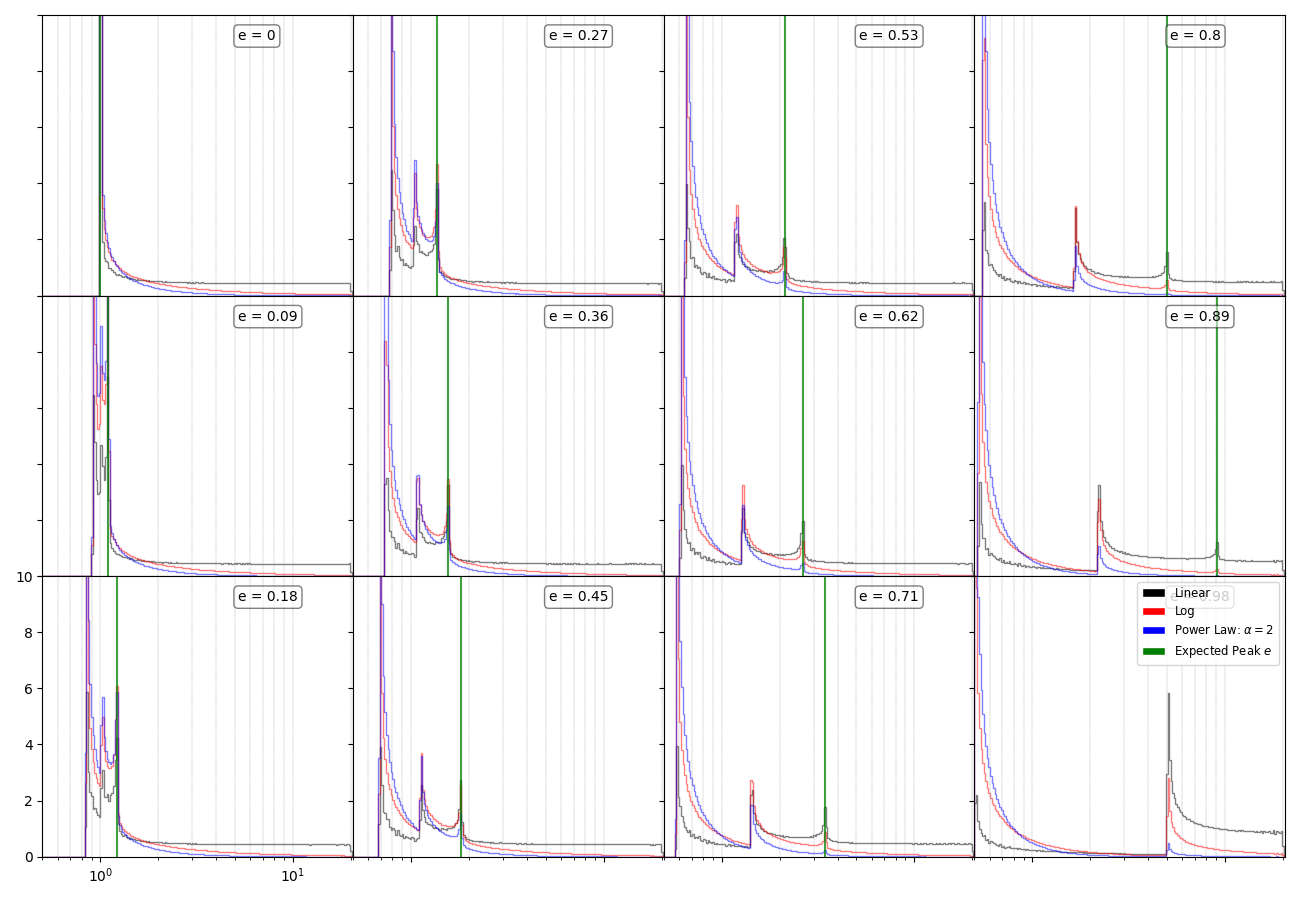
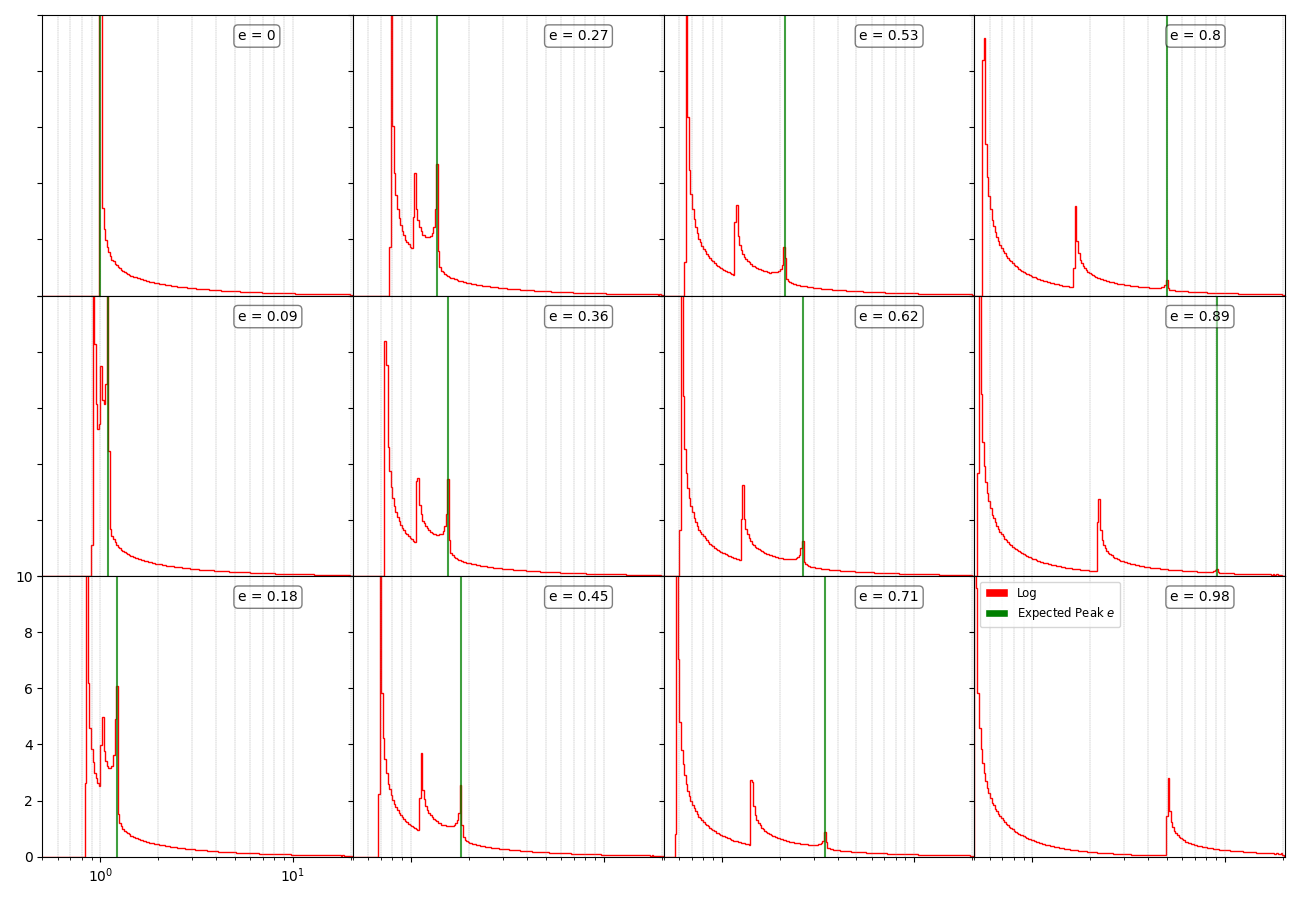
Reverted Changes to CompleteHist, now runs inclination and omegas separate to linear log and linear_a

Changed region(s): [[0.3385, 0.0311, 0.9846, 0.9644], [0.0615, 0.0311, 0.5231, 0.9644]]

diff --git a/Sep_plot.py b/Sep_plot.py
@@ -142,7 +142,7 @@ class Sep_plot(Sep_gen):
         if (inclination == True and len(estep) != 0) or len(specify) != 0:
             totlist = Sep_gen.Rchange(param = param)
         elif len(specify) == 0:
-            with Pool(processes = 9) as pool:
+            with Pool(processes = 15) as pool:
                 totlist = pool.map(Sep_gen.Rchange, param)
         end_time = time.perf_counter()
         totaltime = end_time - start
@@ -600,21 +600,18 @@ class Sep_plot(Sep_gen):
         """
         
         """
-        step, end, inclination, which, estep_outer, inum, wnum = param
+        step, end, inclination, which, estep_outer, inum, wnum, unity = param
         
-        if len(estep_outer) == 0:
+        if not inclination:
             colorlist = ["black", "red", "blue", "green"]
-            labels = ["Linear", "Log", r"Power Law = $\alpha = 2$"]
-        else:
+            # labels = ["Linear", "Log", r"Power Law = $\alpha = 2$"]
+        elif inclination:
             if which == "Log":
-                colorlist = ["red"]
-                labels = ["Log"]
+                colorlist = ["red", "green"]
             elif which == "Linear":
-                colorlist = ["black"]
-                labels = ["Linear"]
+                colorlist = ["black", "green"]
             else:
-                colorlist = ["blue"]
-                labels = ["Linear / a"]
+                colorlist = ["blue", "green"]
         # Dictionary for storing Rchange results
         totlinlist = []
         totloglist = []
@@ -735,42 +732,30 @@ class Sep_plot(Sep_gen):
                         evalhistlist = [(histcirc, binscirc)]
                     else:
                         # For inclination and omega marginalization
-                      for j in range(len(steptotlist)):
-                        steplindict, stepsemidict, blank, steplogdict, blank = steptotlist[j]
-                        histlist = tothistlist[j]
-                        # Log histogram
-                        totlogiter = steplogdict
-                        totloglist = [key for key, val in totlogiter.items() for _ in range(val)]
-                        hist_log, histbins_log = np.histogram(totloglist,bins = logbins, range=(0.5, end+0.5))
-                        if k != 0.0:
-                            histlistiter = histlistlog[j]
-                            hist_log_iter, bins_log_iter = histlistiter
-                            hist_log_iter = hist_log_iter + hist_log
-                            histlistlog[j] = (hist_log_iter, bins_log_iter)
-                        else:
-                            histlistlog.append((hist_log, histbins_log))
-                        # Linear histogram
-                        totliniter = steplindict
-                        totlinlist = [key for key, val in totliniter.items() for _ in range(val)]
-                        hist_lin, histbins_lin = np.histogram(totlinlist,bins = logbins, range=(0.5, end+0.5))
-                        if k != 0.0:
-                            histlistiter = histlistlin[j]
-                            hist_lin_iter, bins_lin_iter = histlistiter
-                            hist_lin_iter = hist_lin_iter + hist_lin
-                            histlistlin[j] = (hist_lin_iter, bins_lin_iter)
-                        else:
-                            histlistlin.append((hist_lin, histbins_lin))
-                        # Linear / a histogram
-                        totsemiiter = stepsemidict
-                        totsemilist = [key for key, val in totsemiiter.items() for _ in range(val)]
-                        hist_semi, histbins_semi = np.histogram(totsemilist,bins = logbins, range=(0.5, end+0.5))
-                        if k != 0.0:
-                            histlistiter = histlistsemi[j]
-                            hist_semi_iter, bins_semi_iter = histlistiter
-                            hist_semi_iter = hist_semi_iter + hist_semi
-                            histlistsemi[j] = (hist_semi_iter, bins_semi_iter)
-                        else:
-                            histlistsemi.append((hist_semi, histbins_semi))
+                        for j in range(len(steptotlist)):
+                            steplindict, stepsemidict, y, steplogdict, blank = steptotlist[j]
+                            histlist = tothistlist[j]
+                            if which == "Log":
+                                # Log histogram
+                                totlogiter = steplogdict
+                                totloglist = [key for key, val in totlogiter.items() for _ in range(val)]
+                                hist_log, histbins_log = np.histogram(totloglist,bins = logbins, range=(0.5, end+0.5))
+                                histlist.append((hist_log, histbins_log))
+                            elif which == "Linear":
+                                # Linear histogram
+                                totliniter = steplindict
+                                totlinlist = [key for key, val in totliniter.items() for _ in range(val)]
+                                hist_lin, histbins_lin = np.histogram(totlinlist,bins = logbins, range=(0.5, end+0.5))
+                                histlist.append((hist_lin, histbins_lin))
+                            elif which == "Linear_a":
+                                # Linear / a histogram
+                                totsemiiter = stepsemidict
+                                totsemilist = [key for key, val in totsemiiter.items() for _ in range(val)]
+                                hist_semi, histbins_semi = np.histogram(totsemilist,bins = logbins, range=(0.5, end+0.5))
+                                histlist.append((hist_semi, histbins_semi))  
+                            else:
+                                return(print(f"Warning: {which} is not a valid point. Please use (Log) or (Linear) as your options"))
+                            tothistlist[j] = histlist
             gc.collect()
         
                     
@@ -840,42 +825,26 @@ class Sep_plot(Sep_gen):
             # Initial Params for Plot
                 ax.set_xlim(0.5,20.5)
                 ax.set_ylim(0,10)
-                ax.set_xscale("log")
-            
+                ax.set_xscale("log")        
         elif len(estep_outer) == 0:
-            # for j, ax  in enumerate(axs.flatten()):
-            #     histlist = tothistlist[j]
-            #     iterparam = param[j]
-            #     for val in range(len(histlist)):
-            #         hist, bins = histlist[val]
-            #         if val == 0:
-            #             tothist = np.zeros_like(hist)
-            #             tothist = tothist + hist
-            #         elif val == len(histlist)-1:
-            #             tothist = tothist + hist
-            #             norm = np.abs(1 / (logbinsize * np.sum(tothist)))
-            #             StepPatch = ax.stairs(tothist * norm, bins, edgecolor = colorlist[0], fill = False)
-            #         else:
-            #             tothist = tothist + hist
-                
-            #     ax.grid(True,color = "grey", linestyle="--", linewidth="0.25", axis = "x", which = "both")
-            #     ax.set_xlim(0.5,20.5)
-            #     ax.set_xscale("log")
-            #     ax.text(8, 4, f"e = {iterparam[0]}")
             for j, ax  in enumerate(axs.flatten()):
-            # Takes newly made lists for data collection 
-                histiter_lin, bins_lin = histlistlin[j]
-                histiter_log, bins_log = histlistlog[j]
-                histiter_semi, bins_semi = histlistsemi[j]
+                histlist = tothistlist[j]
                 iterparam = param[j]
-                # Normalizes
-                norm_lin = np.abs(1 / (logbinsize * np.sum(histiter_lin)))
-                norm_log = np.abs(1 / (logbinsize * np.sum(histiter_log)))
-                norm_semi = np.abs(1 / (logbinsize * np.sum(histiter_semi)))
-                # Plots
-                StepPatch_lin = ax.stairs(histiter_lin * norm_lin, bins_lin, edgecolor = colorlist[0], fill = False, alpha = 0.5)
-                StepPatch_log = ax.stairs(histiter_log * norm_log, bins_log, edgecolor = colorlist[1], fill = False, alpha = 0.5)
-                StepPatch_semi = ax.stairs(histiter_semi * norm_semi, bins_semi, edgecolor = colorlist[2], fill = False, alpha = 0.5)
+                for val in range(len(histlist)):
+                    hist, bins = histlist[val]
+                    if val == 0:
+                        tothist = np.zeros_like(hist)
+                        tothist = tothist + hist
+                    elif val == len(histlist)-1:
+                        tothist = tothist + hist
+                        norm = np.abs(1 / (logbinsize * np.sum(tothist)))
+                        StepPatch = ax.stairs(tothist * norm, bins, edgecolor = colorlist[0], fill = False)
+                    else:
+                        tothist = tothist + hist
+                
+                ax.grid(True,color = "grey", linestyle="--", linewidth="0.25", axis = "x", which = "both")
+                ax.set_xlim(0.5,20.5)
+                ax.set_xscale("log")
                 # Decoration
                 rect = dict(boxstyle = "round", alpha = 0.5, facecolor = "white")
                 textstr = f'e = {iterparam[0]}'
@@ -895,7 +864,7 @@ class Sep_plot(Sep_gen):
                 
                 if j == 11:
                     handles = [patches.Rectangle((0,0),1,1,color = c, ec = "w") for c in colorlist]
-                    labels = ["Linear", "Log", r"Power Law: $\alpha = 2$", r"Expected Peak $e$"]
+                    labels = [f"{which}", r"Expected Peak $e$"]
                         
                     ax.legend(handles = handles, labels = labels, loc = "best", fontsize = "small") 
             # Initial Params for Plot
@@ -912,7 +881,10 @@ class Sep_plot(Sep_gen):
             plt.savefig(f'/College_Projects/Microlensing Separation/Figures/CompleteHist_0002_{wnum}_LinLogSemi.png')
         elif len(estep_outer) == 0:
             # fig.legend(handles, labels)
-            plt.savefig(f'/College_Projects/Microlensing Separation/Figures/CompleteHist_{wnum}_{inum}_{which}.png')
+            if unity:
+                plt.savefig(f"/home/karkour.2/Figures/CompleteHist_{wnum}_{inum}_{which}_unity.png")
+            else:
+                plt.savefig(f'/College_Projects/Microlensing Separation/Figures/CompleteHist_{wnum}_{inum}_{which}.png')
         return tothistlist, evalhistlist
 
     def UnityPlotHist(self, which, wnum, inum, unity = False):
@@ -1048,8 +1020,8 @@ if __name__ == "__main__":
     numdiv = 2
     wnum = 75 # THIS DETERMINES HOW MANY POSITIONS IN THE ARRAY THERE ARE
     inum = wnum
-    which = "Log"
-    unity = "False"
+    which = "Linear"
+    unity = True
     specify = [0., np.pi/3]
     tothist = Sep_plot(numestep=numestep, numdiv=numdiv)
     # rlist = tothist.MultiPlotProj(w = 0, start = 0.5, end = 20, step = 0.5, specify = specify)
@@ -1057,7 +1029,11 @@ if __name__ == "__main__":
     # rtemp = tothist.MultiPlotHist(w = 0, step = 0.002, end = 20, which = which , specify = specify)
     
     #step, end, inclination, which, estep_outer, inum, wnum
-    tothist.CompletePlotHist([0.002, 20, True, which, [], inum, wnum])
+    tothist.CompletePlotHist([0.002, 20, True, which, [], inum, wnum, unity])
+    which = "Log"
+    tothist.CompletePlotHist([0.002, 20, True, which, [], inum, wnum, unity])
+    which = "Linear_a"
+    tothist.CompletePlotHist([0.002, 20, True, which, [], inum, wnum, unity])
     # tothist.UnityPlotHist(which = which, wnum = wnum, inum = inum, unity = unity)
     
     

diff --git a/Sep_gen.py b/Sep_gen.py
@@ -418,6 +418,18 @@ class Sep_gen:
                                             totevaldict[aval] += len(conlin[0])
                                         else:
                                             totevaldict[aval] = len(conlin[0])
+                        else:
+                            x, y, t = Sep_gen.OrbGeoAlt(a = aval, e = e, i = ival ,w = w)
+                            r = np.sqrt(x**2+y**2)
+                            # Whereever there is this value, it finds the indices of each point in the list
+                            conlin = np.where(np.abs(r-r0)<=0.01)
+                
+                            if coords == False and inclination:
+                                # Has brackets with 0 b/c conlin is an array of length 1, to get to values u must flatten
+                                if aval in totlindict:
+                                    totlindict[aval] += len(conlin[0])
+                                else:
+                                    totlindict[aval] = len(conlin[0])
             else:
                 if coords:
                     totlindict = []
@@ -511,35 +523,35 @@ class Sep_gen:
                                 else:
                                     totlogdict[aval] = len(conlog[0])
                                     
-                            # Linear Portion
+                    # # Linear Portion
                     
-                    stepthrough = np.arange(0.5, end + step, step)
-                    for aval in stepthrough:
-                        for ival in i:
-                            x, y, t = Sep_gen.OrbGeoAlt(a = aval, e = e, i = ival ,w = w)
+                    # stepthrough = np.arange(0.5, end + step, step)
+                    # for aval in stepthrough:
+                    #     for ival in i:
+                    #         x, y, t = Sep_gen.OrbGeoAlt(a = aval, e = e, i = ival ,w = w)
                 
-                            r = np.sqrt(x**2+y**2)
+                    #         r = np.sqrt(x**2+y**2)
                         
-                            conlin = np.where(np.abs(r-r0)<=0.01)
-                            if aval in totlindict:
-                                totlindict[aval] += len(conlin[0])
-                            else:
-                                totlindict[aval] = len(conlin[0])
+                    #         conlin = np.where(np.abs(r-r0)<=0.01)
+                    #         if aval in totlindict:
+                    #             totlindict[aval] += len(conlin[0])
+                    #         else:
+                    #             totlindict[aval] = len(conlin[0])
                     # Power Law Portion
-                    stepthrough = Sep_gen.stepdata(2, 0.5, end, 10000)
-                    for aval in stepthrough:
-                        for ival in i:
-                            x, y, t = Sep_gen.OrbGeoAlt(a = aval, e = e, i = ival ,w = w)
+                    # stepthrough = Sep_gen.stepdata(2, 0.5, end, 10000)
+                    # for aval in stepthrough:
+                    #     for ival in i:
+                    #         x, y, t = Sep_gen.OrbGeoAlt(a = aval, e = e, i = ival ,w = w)
                 
-                            r = np.sqrt(x**2+y**2)
+                    #         r = np.sqrt(x**2+y**2)
                         
-                            consemi = np.where(np.abs(r-r0)<=0.01)
-                            if aval in totlinsemidict:
-                                totlinsemidict[aval] += len(consemi[0])
-                            else:
-                                totlinsemidict[aval] = len(consemi[0])
+                    #         consemi = np.where(np.abs(r-r0)<=0.01)
+                    #         if aval in totlinsemidict:
+                    #             totlinsemidict[aval] += len(consemi[0])
+                    #         else:
+                    #             totlinsemidict[aval] = len(consemi[0])
                 return totlindict, totlinsemidict, ylist, totlogdict, totevaldict
-        elif Linear == "Linear / a":
+        elif Linear == "Linear_a":
         # Linear / a Portion
             stepthrough = Sep_gen.stepdata(2, 0.5, end, 10000)
             for aval in stepthrough:
@@ -553,28 +565,28 @@ class Sep_gen:
                             # Has brackets with 0 b/c conlin is an array of length 1, to get to values u must flatten
                         
                             # REMINDER: THIS IS FOR LINEAR / A, I JUST REMOVED THE totlinsemidict FROM THIS FOR EASIER INTERPRETATION
-                            if aval in totlindict:
-                                totlindict[aval] = round(len(conlin[0]) / aval)
+                            if aval in totlinsemidict:
+                                totlinsemidict[aval] = round(len(conlin[0]) / aval)
                             else:
-                                totlindict[aval] = round(len(conlin[0]) / aval)
+                                totlinsemidict[aval] = round(len(conlin[0]) / aval)
                             if eval == 0:
                                 if aval in totevaldict:
                                     totevaldict[aval] += len(conlin[0])
                                 else:
                                     totevaldict[aval] = len(conlin[0])
                     else:
-                        x, y, t = Sep_gen.OrbGeoAlt(a = aval, e = eval, i = ival ,w = w)
+                        x, y, t = Sep_gen.OrbGeoAlt(a = aval, e = e, i = ival ,w = w)
                         r = np.sqrt(x**2+y**2)
                         # Whereever there is this value, it finds the indices of each point in the list
                         conlin = np.where(np.abs(r-r0)<=0.01)
                         # Has brackets with 0 b/c conlin is an array of length 1, to get to values u must flatten
                         
                         # REMINDER: THIS IS FOR LINEAR / A, I JUST REMOVED THE totlinsemidict FROM THIS FOR EASIER INTERPRETATION
-                        if aval in totlindict:
-                            totlindict[aval] = round(len(conlin[0]) / aval)
+                        if aval in totlinsemidict:
+                            totlinsemidict[aval] = round(len(conlin[0]) / aval)
                         else:
-                            totlindict[aval] = round(len(conlin[0]) / aval)
-            return totlindict, xlist, ylist, totlogdict, totevaldict
+                            totlinsemidict[aval] = round(len(conlin[0]) / aval)
+            return totlindict, totlinsemidict, ylist, totlogdict, totevaldict
     @staticmethod
     def stepdata(alpha, xmin, xmax, nsamples):
         
